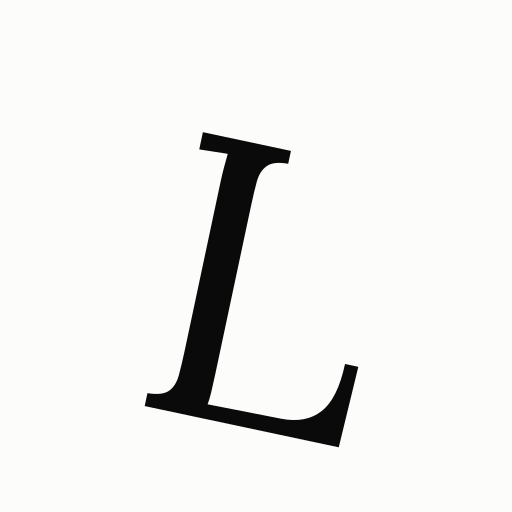
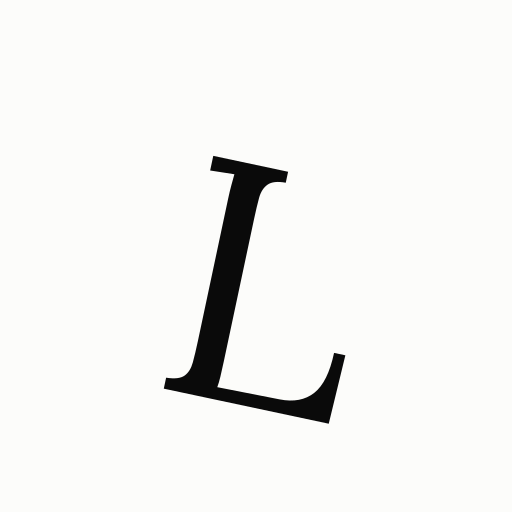
Letterfall: tip and shake the phone, under a heavier gravity
The page is a box with the letters loose in it: gravity follows the phone's
accelerometer one to one, so tipping it slides the pile, shaking it throws
everything about, and turning it over drops the letters onto a roof a
quarter of a screen above the top, until it is righted again. iOS asks for
the sensor on the first tap.

With the phone acting as a real box the old gravity read as syrup, so the
letters now fall at 1.4 times what they did (launch speeds scaled to match)
while the periods keep the old gravity, which lets a popped letter be
watched draining away.

HTTPS=1 serves the dev server over https, which a phone insists on before
it will hand a page its sensors. The icon's L is a little smaller.

Changed region(s): [[0.2812, 0.25, 0.7188, 0.875]]

diff --git a/experiments/letterfall/lettersWorld.ts b/experiments/letterfall/lettersWorld.ts
@@ -8,6 +8,7 @@ import {
   inkSampler,
   type Point
 } from "./glyphShapes";
+import { watchMotion } from "./motion";
 
 const BACKGROUND = "#fcfcfa";
 const INK = "#0a0a0a";
@@ -17,12 +18,28 @@ const CHARACTERS =
 // The world is simulated in CSS pixels; this tells the solver how many of
 // them make up its notional metre, which sets its tolerances to match.
 const PIXELS_PER_METRE = 100;
-const GRAVITY = 1400;
+// In px/s². True to life it would be some 55,000 (a phone's screen is about
+// 5,700px to the metre), which no solver could keep hairline serifs apart
+// under; but the further short of that it falls, the more everything seems
+// to be sinking through syrup, and the more so now that the phone can be
+// tipped and shaken like a real box. These were settled by feel, on a phone:
+// the letters as heavy as still reads as letters falling, and the periods
+// lighter than that, so that a popped letter can be watched draining away.
+const GRAVITY = 1960;
+const DOT_GRAVITY = 1400;
+// The speeds things are thrown at were chosen under a gravity of 1400; under
+// any other they are scaled so that whatever is thrown still goes as far.
+const LAUNCH = Math.sqrt(GRAVITY / 1400);
+const DOT_LAUNCH = Math.sqrt(DOT_GRAVITY / 1400);
 // Two physics steps per 60Hz frame: hairline serifs are only a few pixels
 // thick, and halving how far anything moves per step is what keeps them from
 // slipping through one another.
 const STEP_MS = 1000 / 120;
 const MAX_STEPS_PER_FRAME = 6;
+// Tipping or shaking the phone swings gravity about. A pile that has dozed
+// off does not notice that by itself, so it is woken whenever gravity has
+// moved this far (as a fraction of its usual strength) since the last time.
+const GRAVITY_WAKE_CHANGE = 0.06;
 
 const MIN_SIZE = 46;
 const MAX_SIZE = 156;
@@ -119,6 +136,10 @@ const SHOULDER_RADIUS = 24;
 const FILLET_RADIUS = 48;
 const CORNER_STEPS = 8;
 const WALL_THICKNESS = 400;
+// There is a roof, this far above the top of the screen as a fraction of the
+// screen's height: with the phone turned upside down the letters fall up out
+// of sight and heap against it, and come back down when it is righted.
+const ROOF_HEADROOM = 0.25;
 const WALL_MARGIN = 7;
 
 type Letter = {
@@ -223,6 +244,8 @@ export const createLettersWorld = (
   // when the page is not sighing.
   let sighAge: number | null = null;
   let sighText = "";
+  const motion = watchMotion(canvas);
+  let wokenAt = { x: 0, y: 1 };
 
   // --- World geometry -------------------------------------------------------
 
@@ -337,7 +360,16 @@ export const createLettersWorld = (
       return body;
     };
 
+    const roof = fixed(width / 2, -height * ROOF_HEADROOM - WALL_THICKNESS / 2);
+    physics.createCollider(
+      RAPIER.ColliderDesc.cuboid(width / 2 + WALL_THICKNESS, WALL_THICKNESS / 2)
+        .setFriction(0.2)
+        .setRestitution(0.05),
+      roof
+    );
+
     boundaries = [
+      roof,
       wall(-WALL_THICKNESS / 2),
       wall(width + WALL_THICKNESS / 2),
       funnel(-1),
@@ -410,7 +442,7 @@ export const createLettersWorld = (
       );
       if (blocked) continue;
 
-      const speed = randomBetween(300, 640);
+      const speed = randomBetween(300, 640) * LAUNCH;
       const thumbVelocity = thumb.body.linvel();
       const body = physics.createRigidBody(
         RAPIER.RigidBodyDesc.dynamic()
@@ -572,12 +604,12 @@ export const createLettersWorld = (
         // Outwards from the middle of the letter, with a little lift: a pop,
         // not a blast.
         const away = Math.atan2(offsetY, offsetX) + randomBetween(-0.6, 0.6);
-        const speed = randomBetween(70, 240);
+        const speed = randomBetween(70, 240) * DOT_LAUNCH;
         dots.push({
           body: dot,
           holdMs: DOT_HOLD_MS + randomBetween(0, 16),
           burstX: drift.x * 0.5 + Math.cos(away) * speed,
-          burstY: drift.y * 0.5 + Math.sin(away) * speed - 110
+          burstY: drift.y * 0.5 + Math.sin(away) * speed - 110 * DOT_LAUNCH
         });
       }
     }
@@ -669,6 +701,15 @@ export const createLettersWorld = (
       }
     }
 
+    const pull = motion.pull();
+    physics.gravity = { x: pull.x * GRAVITY, y: pull.y * GRAVITY };
+    if (
+      Math.hypot(pull.x - wokenAt.x, pull.y - wokenAt.y) > GRAVITY_WAKE_CHANGE
+    ) {
+      wokenAt = pull;
+      wakeAll();
+    }
+
     physics.step();
 
     const drained = height + 40;
@@ -698,7 +739,7 @@ export const createLettersWorld = (
       if (dot.holdMs <= 0) continue;
       dot.holdMs -= STEP_MS;
       if (dot.holdMs > 0) continue;
-      dot.body.setGravityScale(1, true);
+      dot.body.setGravityScale(DOT_GRAVITY / GRAVITY, true);
       dot.body.setLinvel({ x: dot.burstX, y: dot.burstY }, true);
     }
     if (anyDrained) {
@@ -968,6 +1009,7 @@ export const createLettersWorld = (
     destroy: () => {
       destroyed = true;
       cancelAnimationFrame(frame);
+      motion.destroy();
       resizeObserver.disconnect();
       window.removeEventListener("keydown", onDebugKey);
       document.fonts.removeEventListener("loadingdone", clearGlyphShapes);

diff --git a/experiments/letterfall/motion.ts b/experiments/letterfall/motion.ts
@@ -1,0 +1,111 @@
+// The phone's own motion, as the pull its contents would feel. The page is
+// treated as a box with the letters loose inside it, and what is loose in a
+// box feels exactly what the box's accelerometer reports, the other way
+// round: tip it and down moves, turn it over and down is the roof, shake it
+// and everything is thrown against the walls. So the reading is used as it
+// comes, one to one, with nothing exaggerated and nothing held back. A phone
+// leaning back has weaker gravity in the plane of its screen, and one lying
+// flat has none.
+
+// Just enough smoothing to take the grain off the sensor, well short of
+// anything that could be felt as lag.
+const SMOOTHING_MS = 25;
+// A sane limit on a jolt, in g: a phone rapped on a table reads far more than
+// the pile could be asked to survive.
+const MAX_PULL = 4;
+// A reading older than this is stale (the page was hidden, say): a jolt
+// caught in it is not left ringing, and the phone's slower lean is used.
+const MAX_GAP_MS = 250;
+const LEAN_SETTLE_MS = 500;
+
+type Pull = { x: number; y: number };
+
+type MotionPermission = {
+  requestPermission?: () => Promise<"granted" | "denied">;
+};
+
+// iOS reports acceleration with the opposite sign to everything else.
+const IS_IOS =
+  /iP(hone|ad|od)/.test(navigator.userAgent) ||
+  (navigator.platform === "MacIntel" && navigator.maxTouchPoints > 1);
+
+/**
+ * Watch the phone's motion. `pull()` is what gravity should be just now, as a
+ * multiple of its usual strength, in screen axes (x right, y down): { 0, 1 }
+ * for a phone held upright and still, or one with no sensor at all.
+ */
+export const watchMotion = (target: HTMLElement) => {
+  // The reading, and the slow lean underneath it; both in g, in screen axes.
+  let felt: Pull | null = null;
+  let lean: Pull = { x: 0, y: 1 };
+  let lastReading = 0;
+
+  const onMotion = (event: DeviceMotionEvent) => {
+    const reading = event.accelerationIncludingGravity;
+    if (reading?.x == null || reading.y == null) return;
+
+    // What the contents feel, in the phone's own axes (x right, y up): the
+    // opposite of what the sensor reports (which at rest is the push of the
+    // hand holding it up).
+    const sign = IS_IOS ? 1 : -1;
+    const feltX = (sign * reading.x) / 9.81;
+    const feltY = (sign * reading.y) / 9.81;
+    // Into the screen's axes, whichever way up the page is being shown.
+    const turned = ((screen.orientation?.angle ?? 0) * Math.PI) / 180;
+    const x = feltX * Math.cos(turned) - feltY * Math.sin(turned);
+    const y = -feltX * Math.sin(turned) - feltY * Math.cos(turned);
+
+    const elapsed = event.timeStamp - lastReading;
+    lastReading = event.timeStamp;
+    if (!felt || elapsed > MAX_GAP_MS) {
+      felt = { x, y };
+      lean = { x, y };
+      return;
+    }
+    const follow = 1 - Math.exp(-elapsed / SMOOTHING_MS);
+    felt.x += (x - felt.x) * follow;
+    felt.y += (y - felt.y) * follow;
+    const settle = 1 - Math.exp(-elapsed / LEAN_SETTLE_MS);
+    lean.x += (x - lean.x) * settle;
+    lean.y += (y - lean.y) * settle;
+  };
+
+  // iOS only hands over the sensor if asked from inside a tap. The first one
+  // anywhere on the page will do; if that turns out not to count as a tap,
+  // the next one is tried.
+  const gestures = ["pointerup", "touchend", "click"] as const;
+  let asking = false;
+  const ask = async () => {
+    const { requestPermission } = DeviceMotionEvent as MotionPermission;
+    if (!requestPermission || asking) return;
+    asking = true;
+    try {
+      await requestPermission.call(DeviceMotionEvent);
+      for (const type of gestures) target.removeEventListener(type, ask);
+    } catch {
+      // Not a gesture it accepts.
+    }
+    asking = false;
+  };
+
+  const supported = typeof DeviceMotionEvent !== "undefined";
+  if (supported) {
+    window.addEventListener("devicemotion", onMotion);
+    for (const type of gestures) target.addEventListener(type, ask);
+  }
+
+  return {
+    pull: (): Pull => {
+      if (!felt) return { x: 0, y: 1 };
+      const live = performance.now() - lastReading < MAX_GAP_MS;
+      const { x, y } = live ? felt : lean;
+      const limit = Math.min(1, MAX_PULL / (Math.hypot(x, y) || 1));
+      return { x: x * limit, y: y * limit };
+    },
+    destroy: () => {
+      if (!supported) return;
+      window.removeEventListener("devicemotion", onMotion);
+      for (const type of gestures) target.removeEventListener(type, ask);
+    }
+  };
+};

diff --git a/vite.config.ts b/vite.config.ts
@@ -2,6 +2,7 @@ import { defineConfig } from "vite";
 import react from "@vitejs/plugin-react";
 import { ViteImageOptimizer } from "vite-plugin-image-optimizer";
 import { VitePWA } from "vite-plugin-pwa";
+import basicSsl from "@vitejs/plugin-basic-ssl";
 import { copyFileSync, existsSync, mkdirSync } from "node:fs";
 import { resolve } from "node:path";
 import { fileURLToPath } from "node:url";
@@ -56,6 +57,10 @@ function experimentConfig(site: string) {
     base: "/",
     plugins: [
       react(),
+      // HTTPS=1 serves over https with a throwaway self-signed certificate.
+      // A phone only lets a page at its motion sensors (among other things)
+      // over https, and that includes the dev server on the local network.
+      ...(process.env.HTTPS ? [basicSsl()] : []),
       ...(installable
         ? [
             VitePWA({

diff --git a/experiments/README.md b/experiments/README.md
@@ -22,6 +22,11 @@ portfolio code, and the portfolio's build contains no experiments.
 ```sh
 SITE=letterfall npm run dev     # http://localhost:5173/
 SITE=letterfall npm run build
+
+# On a phone: over https, which sensors and the like insist on, and reachable
+# from the local network. The certificate is self-signed, so the phone warns
+# about it once.
+HTTPS=1 SITE=letterfall npm run dev -- --host
 ```
 
 ## Adding one
